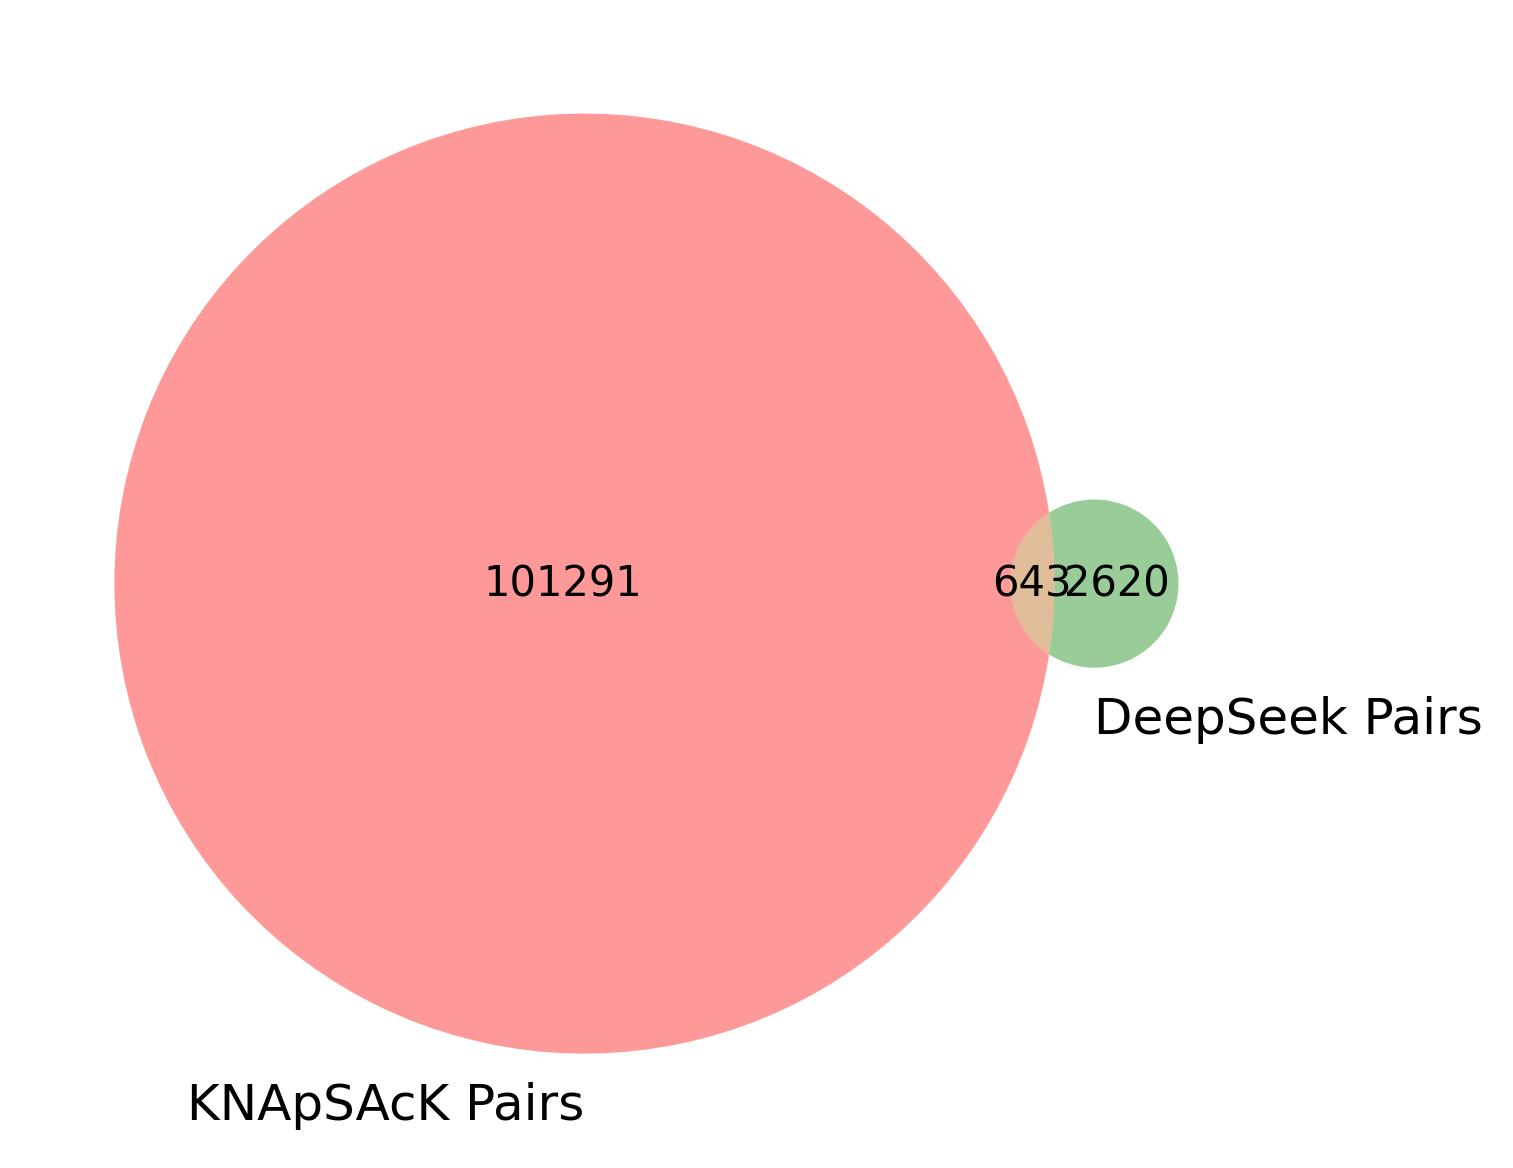
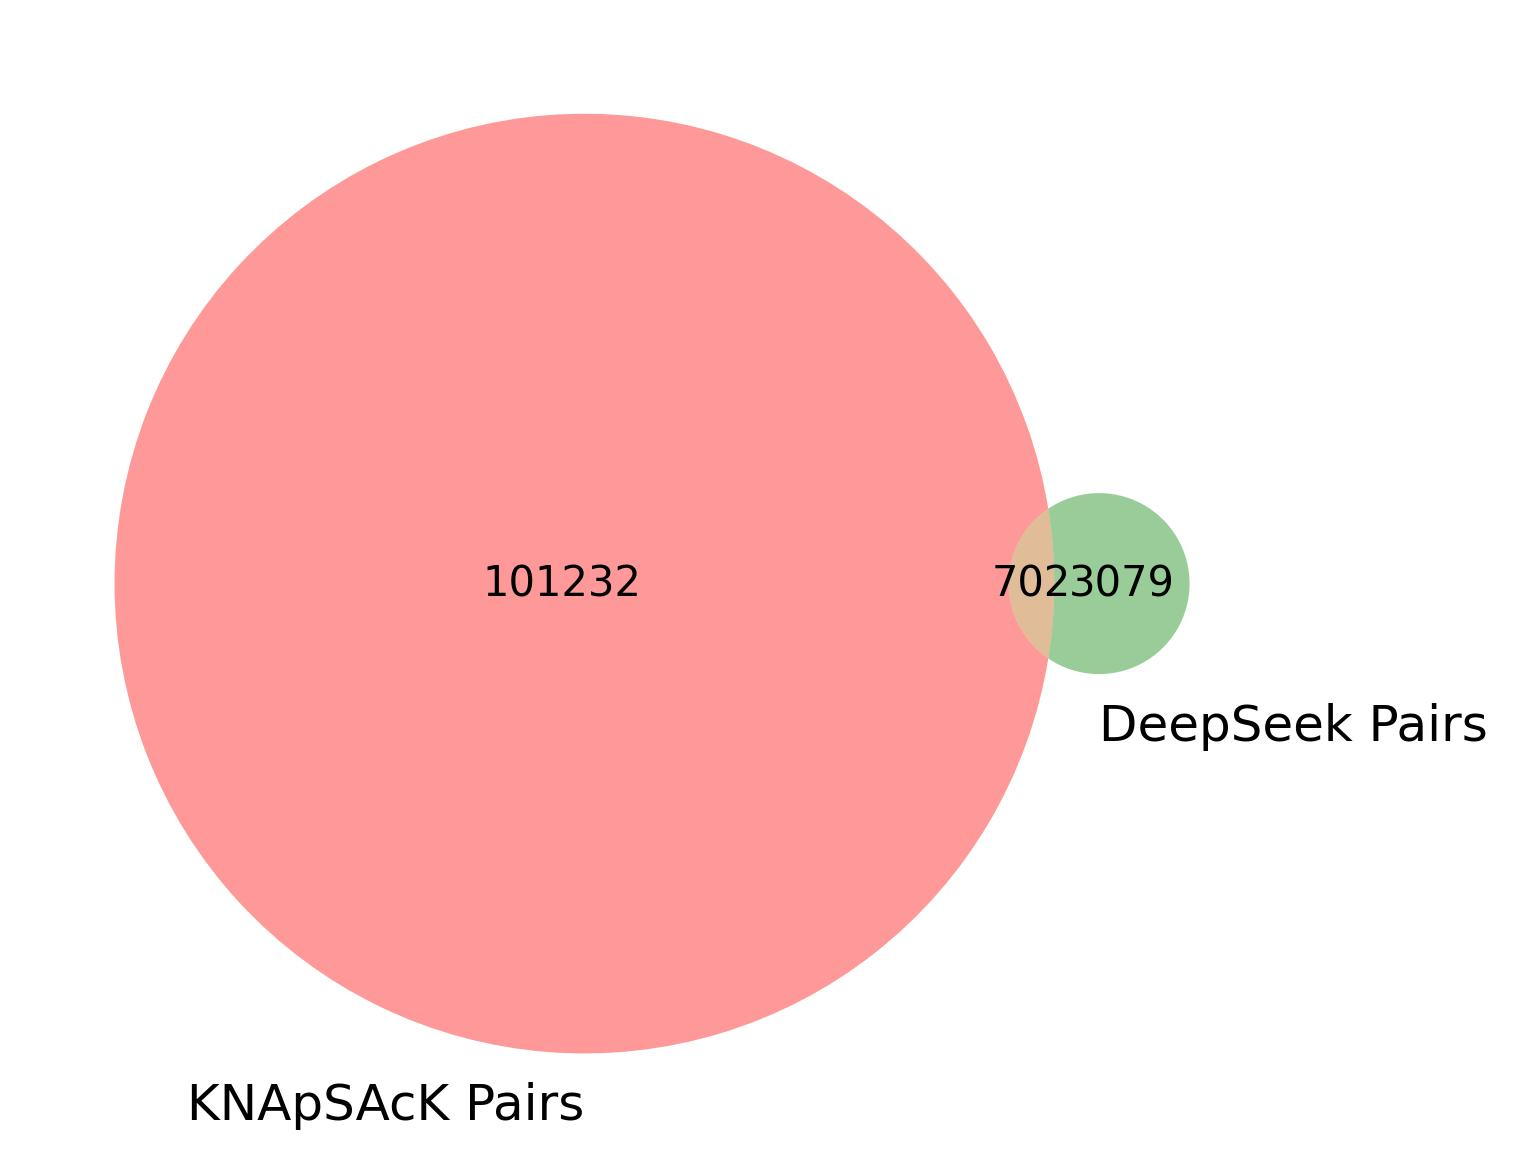
Add some more deepseek pkls

Changed region(s): [[0.6523, 0.4007, 0.9941, 0.6473], [0.1243, 0.9247, 0.3728, 0.9555], [0.3106, 0.4623, 0.4349, 0.524]]

diff --git a/extraction/evaluation/deepseek_score_on_negative_cases.py b/extraction/evaluation/deepseek_score_on_negative_cases.py
@@ -24,7 +24,7 @@ def get_errors_from_result(result):
             taxon_errors.append([taxon.scientific_name, sanitised_doi])
             if len(taxon.compounds) == 0:
                 taxa_without_compounds_errors.append([taxon.scientific_name, sanitised_doi])
-    print(pair_errors)
+    print(f'pair_errors:{pair_errors}')
     print(taxon_errors)
     print(taxa_without_compounds_errors)
 
@@ -58,13 +58,13 @@ def medplant_cases():
     relevant_data = relevant_data.drop_duplicates(subset=['DOI'])
     relevant_data = relevant_data[
         ['DOI', 'title', 'sanitised_dois', 'plant_species_binomials_unique_total', 'plant_species_binomials_counts']]
-    print(relevant_data)
+    # print(relevant_data)
     assert len(relevant_data[relevant_data['plant_species_binomials_unique_total'] > 0]) == len(relevant_data)
     relevant_data.to_csv(os.path.join('outputs', 'medplant_data_info.csv'))
 
 
 def main():
-    random_cases()
+    # random_cases()
     medplant_cases()
 
 

diff --git a/extraction/methods/running_models.py b/extraction/methods/running_models.py
@@ -82,8 +82,9 @@ def query_a_model(model, text_file: str, context_window: int, pkl_dump: str = No
     output = []
 
     for extraction in extractions:
-        if extraction.taxa is not None:
-            output.extend(extraction.taxa)
+        if extraction is not None:
+            if extraction.taxa is not None:
+                output.extend(extraction.taxa)
 
     deduplicated_extractions = deduplicate_and_standardise_output_taxa_lists(output)
     add_all_extra_info_to_output(deduplicated_extractions)
